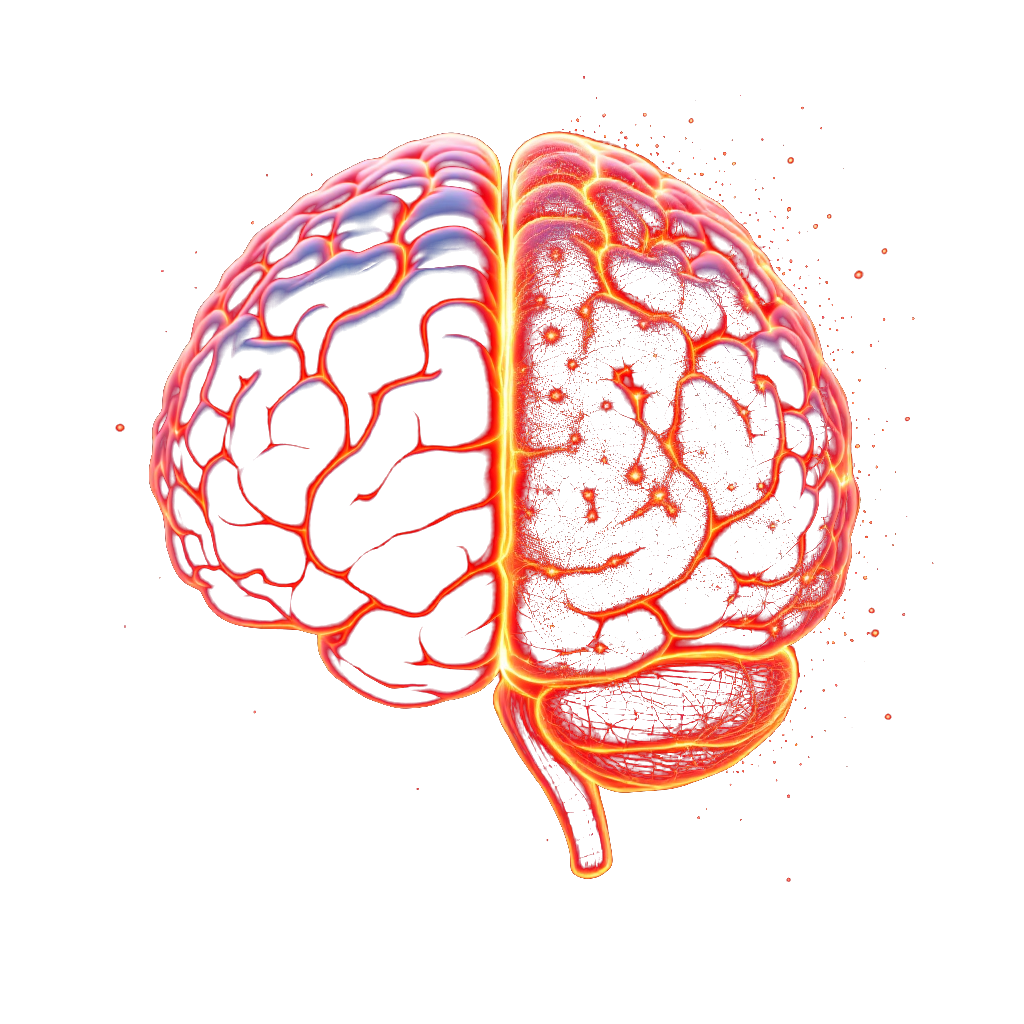
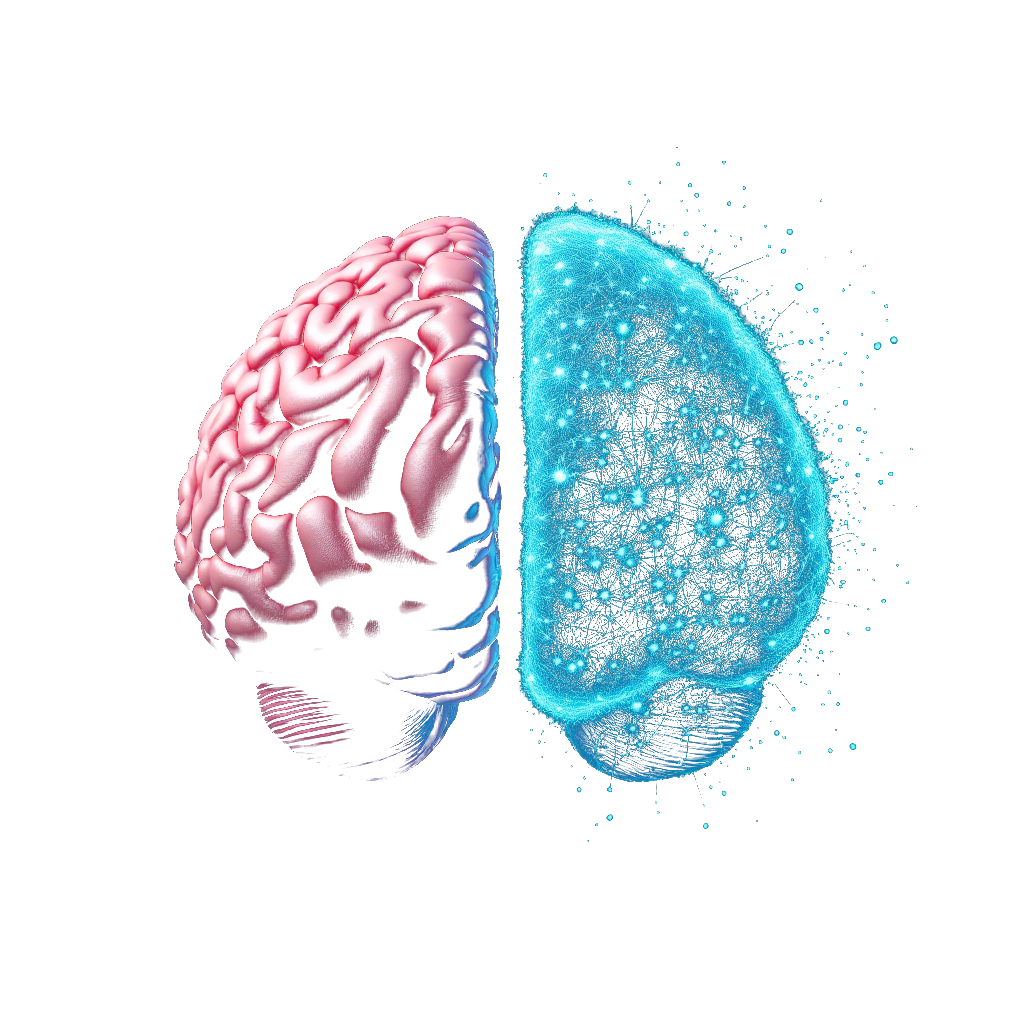
Hero финал: мозг вариант 2 (левое извилины/правое нейроны), двойное свечение коралл+бирюза, слоган идея→реализация

Changed region(s): [[0.125, 0.125, 0.8438, 0.875], [0.8438, 0.5938, 0.875, 0.625], [0.8438, 0.3125, 0.875, 0.3438]]

diff --git a/index.html b/index.html
@@ -54,6 +54,7 @@
   .rule{height:3px;width:200px;border-radius:3px;margin:0 0 26px;background:linear-gradient(90deg,var(--coral),var(--coral-deep));box-shadow:0 0 18px var(--coral-glow);transform-origin:left center}
   .lead{font-size:clamp(1.15rem,2.3vw,1.6rem);font-weight:400;line-height:1.36;color:#CDD2E0;max-width:24ch;margin-bottom:40px}
   .lead .acc{font-family:var(--serif);font-style:italic;font-weight:400;color:var(--coral);font-size:1.12em}
+  .lead .acc-r{color:var(--teal)}
   .meta{display:grid;grid-template-columns:repeat(4,auto);gap:0 36px;margin-bottom:42px;width:fit-content}
   .meta .k{display:block;font-family:var(--mono);font-size:10.5px;letter-spacing:.14em;text-transform:uppercase;color:var(--mid);margin-bottom:7px}
   .meta .v{display:block;font-size:15px;font-weight:600;color:var(--ivory)}
@@ -69,7 +70,9 @@
 
   /* brain stage */
   .stage{position:relative;z-index:2;width:100%;aspect-ratio:1/1;max-height:88svh;justify-self:center}
-  .halo{position:absolute;border-radius:50%;filter:blur(64px);pointer-events:none;z-index:1;background:radial-gradient(circle,rgba(255,111,97,.32),transparent 70%);width:66%;height:66%;left:17%;top:17%;animation:breathe 6.5s ease-in-out infinite}
+  .halo{position:absolute;border-radius:50%;filter:blur(60px);pointer-events:none;z-index:1;width:52%;height:60%;top:20%;animation:breathe 6.5s ease-in-out infinite}
+  .halo-l{left:5%;background:radial-gradient(circle,rgba(255,111,97,.34),transparent 70%)}
+  .halo-r{right:5%;background:radial-gradient(circle,rgba(79,209,197,.24),transparent 70%);animation-direction:reverse}
   @keyframes breathe{0%,100%{opacity:.55;transform:scale(1)}50%{opacity:.9;transform:scale(1.06)}}
   #brainWrap{position:absolute;inset:0;z-index:2;will-change:transform}
   .brain-img{position:absolute;inset:0;width:100%;height:100%;object-fit:contain;opacity:0;transform:scale(.94);transition:opacity 1.3s ease,transform 1.3s cubic-bezier(.16,1,.3,1);filter:saturate(1.02)}
@@ -111,7 +114,7 @@
       <div class="eyebrow reveal d1">neovida · практикум</div>
       <h1 class="reveal d2">Практикум<br><span class="q">«</span><span class="m">мозг</span><span class="ii">ИИ</span><span class="q">»</span></h1>
       <div class="rule reveal d3"></div>
-      <p class="lead reveal d3">С вас <span class="acc">идея</span>, с ИИ <span class="acc">реализация</span></p>
+      <p class="lead reveal d3">С вас <span class="acc">идея</span>, с ИИ <span class="acc acc-r">реализация</span></p>
 
       <div class="meta reveal d4">
         <div><span class="k">формат</span><span class="v">Онлайн</span></div>
@@ -127,7 +130,8 @@
     </div>
 
     <div class="stage">
-      <div class="halo"></div>
+      <div class="halo halo-l"></div>
+      <div class="halo halo-r"></div>
       <div id="brainWrap">
         <img class="brain-img" src="assets/brain.png" alt="Мозг: человек и ИИ" decoding="async">
         <canvas id="fx" aria-hidden="true"></canvas>
@@ -153,13 +157,15 @@
     ctx.clearRect(0,0,W,H);ctx.globalCompositeOperation='lighter';
     /* ambient sparks */
     for(var i=0;i<parts.length;i++){var p=parts[i];p.x+=p.drift*0.5;if(p.x>cx+R*1.25)p.x=cx-R*0.2+Math.random()*R*0.4;
-      var tw=0.4+0.6*Math.sin(t*p.sp+p.ph);
-      ctx.beginPath();ctx.arc(p.x,p.y,p.r,0,6.28);ctx.fillStyle='rgba(255,150,120,'+(0.25*tw)+')';ctx.shadowBlur=7;ctx.shadowColor='rgba(255,111,97,0.7)';ctx.fill();}
+      var tw=0.4+0.6*Math.sin(t*p.sp+p.ph),teal=p.x>cx;
+      ctx.beginPath();ctx.arc(p.x,p.y,p.r,0,6.28);
+      ctx.fillStyle=teal?'rgba(120,220,205,'+(0.24*tw)+')':'rgba(255,150,120,'+(0.24*tw)+')';
+      ctx.shadowBlur=7;ctx.shadowColor=teal?'rgba(79,209,197,0.7)':'rgba(255,111,97,0.7)';ctx.fill();}
     ctx.shadowBlur=0;
     /* right-edge dissolve particles */
     if(!reduce){if(flow.length<40&&Math.random()<0.7){var yy=cy+(Math.random()*2-1)*R*0.7;flow.push({x:cx+R*0.42,y:yy,vx:0.5+Math.random()*1.1,vy:(Math.random()-0.5)*0.3,life:0,max:70+Math.random()*60,s:0.7+Math.random()*1.5});}
       for(var f=flow.length-1;f>=0;f--){var q=flow[f];q.life++;q.x+=q.vx;q.y+=q.vy;var lt=q.life/q.max;if(lt>=1){flow.splice(f,1);continue;}
-        ctx.beginPath();ctx.arc(q.x,q.y,q.s,0,6.28);ctx.fillStyle='rgba(255,180,150,'+Math.sin(lt*Math.PI)*0.7+')';ctx.shadowBlur=8;ctx.shadowColor='rgba(255,140,110,0.8)';ctx.fill();}
+        ctx.beginPath();ctx.arc(q.x,q.y,q.s,0,6.28);ctx.fillStyle='rgba(140,225,210,'+Math.sin(lt*Math.PI)*0.75+')';ctx.shadowBlur=8;ctx.shadowColor='rgba(79,209,197,0.85)';ctx.fill();}
       ctx.shadowBlur=0;}
     ctx.globalCompositeOperation='source-over';
   }